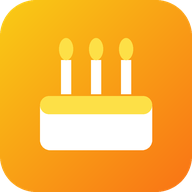
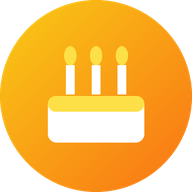
Add files via upload

diff --git a/sw.js b/sw.js
@@ -1,16 +1,15 @@
 'use strict';
 
 const CACHE_PREFIX = 'khan-family-';
-const CACHE_NAME = CACHE_PREFIX + 'v149';
+const CACHE_NAME = CACHE_PREFIX + 'v151';
 
 const SCOPE = new URL(self.registration.scope);
 const ROOT_URL = SCOPE.href;                         // e.g. https://site/
 const INDEX_URL = new URL('index.html', SCOPE).href; // e.g. https://site/index.html
-const ICONS = {
-  chat: 'icon-chat.png', notice: 'icon-notice.png', photo: 'icon-photo.png', birthday: 'icon-birthday.png',
-  admin: 'icon-admin.png', urgent: 'icon-urgent.png', update: 'icon-update.png'
-};
-const OPTIONAL = ['manifest.webmanifest'].concat(Object.values(ICONS));           // cached if available, never blocks install
+const ICON_KEYS = ['chat', 'group', 'pin', 'notice', 'poll', 'blood', 'photo', 'birthday', 'urgent', 'memorial', 'pending', 'newmember', 'approved', 'rejected', 'admin', 'adminoff', 'sug', 'sugok', 'sugno', 'avok', 'avno', 'hist', 'ver']; // icon-<name>.png : each kind of notification has its own logo
+const ICONS = {}; ICON_KEYS.forEach(k => { ICONS[k] = 'icon-' + k + '.png'; });
+const BADGE = 'badge-96.png'; // status-bar icon: must be a white silhouette on transparent, or Android shows a white square
+const OPTIONAL = ['manifest.webmanifest', BADGE].concat(Object.values(ICONS));           // cached if available, never blocks install
 
 // Versioned, never-changing files (Firebase SDK 10.14.1, font binaries): once cached they are never downloaded again.
 const FIREBASE_BASE = 'https://www.gstatic.com/firebasejs/10.14.1/';
@@ -230,28 +229,26 @@ self.addEventListener('message', event => {
 
 /* ---------- push notifications ---------- */
 
-// Which kind of notification is this? Decides the logo. Server 'type' first, then hints, then the emoji in the title.
-const TYPE_TO_KIND = {
-  chat: 'chat', group: 'chat', pin: 'chat', msg: 'chat', message: 'chat',
-  notice: 'notice', news: 'notice', poll: 'notice', event: 'notice',
-  photo: 'photo', video: 'photo', gallery: 'photo',
-  birthday: 'birthday', bday: 'birthday', anniversary: 'birthday',
-  approved: 'admin', rejected: 'admin', newmember: 'admin', pending: 'admin',
-  sug: 'admin', sugok: 'admin', sugno: 'admin', avok: 'admin', avno: 'admin', claim: 'admin',
-  hist: 'update', ver: 'update', update: 'update',
-  urgent: 'urgent', death: 'urgent', condolence: 'urgent'
+// Which kind of notification is this? Decides the logo: server 'type' first, then hints, then the emoji in the title.
+const ALIAS = {
+  msg: 'chat', message: 'chat', news: 'notice', event: 'notice', video: 'photo', gallery: 'photo',
+  bday: 'birthday', anniversary: 'birthday', death: 'memorial', condolence: 'urgent',
+  update: 'ver', claim: 'sug', avatar: 'sug', blooddonor: 'blood'
 };
 const EMOJI_TO_KIND = [
-  [/^\s*💬/, 'chat'], [/^\s*(🎂|🎉|🥳)/, 'birthday'], [/^\s*(🕊|🚨|⚠)/, 'urgent'], [/^\s*(🩸|📣|📢|🗳|📰)/, 'notice'],
-  [/^\s*(📷|🖼|🎞|🎥)/, 'photo'], [/^\s*(✅|❌|🙋|🔑|👤)/, 'admin'], [/^\s*(🆕|📜|⬆)/, 'update']
+  [/^\s*💬/, 'chat'], [/^\s*👥/, 'group'], [/^\s*📌/, 'pin'], [/^\s*🩸/, 'blood'], [/^\s*(🎂|🥳)/, 'birthday'],
+  [/^\s*🕊/, 'memorial'], [/^\s*(🚨|⚠)/, 'urgent'], [/^\s*(📣|📢|📰)/, 'notice'], [/^\s*🗳/, 'poll'],
+  [/^\s*(📷|🖼|🎞|🎥)/, 'photo'], [/^\s*✅/, 'approved'], [/^\s*❌/, 'rejected'], [/^\s*🎉/, 'admin'],
+  [/^\s*🛠/, 'pending'], [/^\s*📜/, 'hist'], [/^\s*🆕/, 'ver']
 ];
-function kindOf(d, n, title) {
-  if (d.urgent === true || d.urgent === 'true') return 'urgent';
+function kindOf(d, n, title, body) {
   const t = String(d.type || n.type || d.kind || '').toLowerCase();
-  if (TYPE_TO_KIND[t]) return TYPE_TO_KIND[t];
+  if (d.urgent === true || d.urgent === 'true') return /🩸/.test(body + title) ? 'blood' : 'urgent';
+  if (t === 'notice' && /🩸/.test(body)) return 'blood';
+  if (ICONS[t]) return t;
+  if (ALIAS[t]) return ALIAS[t];
   const g = String(d.go || '').toLowerCase();
   if (g === 'chat' || d.chat) return 'chat';
-  if (TYPE_TO_KIND[g]) return TYPE_TO_KIND[g];
   for (const [re, k] of EMOJI_TO_KIND) if (re.test(title)) return k;
   return null;
 }
@@ -279,13 +276,21 @@ self.addEventListener('push', event => {
     const d = Object.assign({}, payload.data || {}, n.data || {});
     const tag = n.tag || d.tag || undefined;
 
-    const title = n.title || d.title || 'খান পরিবার';
-    const kind = kindOf(d, n, title);
+    // The round logo already shows the kind, so the old emoji prefix is dropped from the text (modern look).
+    const plain = t => { const r = String(t || '').replace(/^[\s\p{Extended_Pictographic}\uFE0F\u200D]+/u, ''); return r || String(t || ''); };
+    const rawTitle = n.title || d.title || 'খান পরিবার';
+    const rawBody = n.body || d.body || '';
+    const kind = kindOf(d, n, rawTitle, rawBody);
+    const title = plain(rawTitle);
+    const isChat = kind === 'chat' || kind === 'group' || kind === 'pin';
 
     const options = {
-      body: n.body || d.body || '',
-      icon: n.icon || (kind && ICONS[kind]) || 'icon-192.png', // each kind of notification gets its own logo
-      badge: 'icon-192.png',
+      body: plain(rawBody),
+      icon: n.icon || (kind && ICONS[kind]) || 'icon-192.png', // round logo per kind of notification
+      badge: BADGE,                                            // small white status-bar icon
+      timestamp: Date.now(),
+      vibrate: [120, 60, 120],
+      actions: [{ action: 'open', title: isChat ? 'উত্তর দিন' : 'খুলুন' }],
       data: { url: targetFrom(d, n, payload), go: d.go, chat: d.chat }
     };
     if (tag) { options.tag = tag; options.renotify = true; } // renotify is only valid together with a tag
